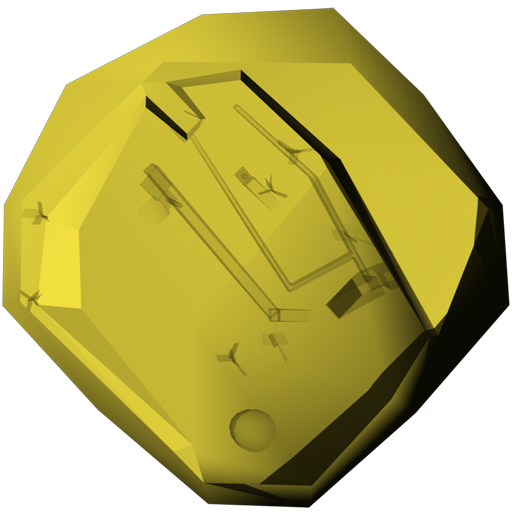
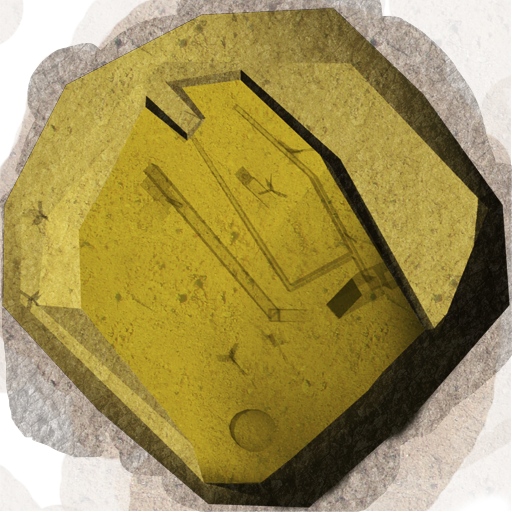
GrenadeRun:  - L. Launcher (and user launcher) can aim backwards,  - attempting to playback paused intro voice-over,  - tweaked RoboCastle,  - added content to level textures,  - added vehicle AI detection of "I'm in a too steep spot = might    be stuck under bridge".

diff --git a/GrenadeRun/VehicleAi.cpp b/GrenadeRun/VehicleAi.cpp
@@ -277,14 +277,31 @@ void VehicleAi::OnTick()
 			if (lModeRunDeltaFrameCount%5 == 2)
 			{
 				const float lVelocityScaleFactor = std::min(1.0f, lVelocity.GetLength() / 2.5f);
-				const float lNearstPathDistance = GetClosestPathDistance(lPosition);
-				if (lNearstPathDistance < SCALE_FACTOR * OFF_COURSE_DISTANCE * lVelocityScaleFactor)
+				Spline* lPath = mGame->GetLevel()->QueryPath()->GetPath(mActivePath);
+				const float lCurrentTime = lPath->GetCurrentInterpolationTime();
+				const float lNearestPathDistance = GetClosestPathDistance(lPosition, mActivePath, 0, 1);
+				if (lNearestPathDistance > 3.0f)
+				{
+					// First verify that we haven't ended up under path somehow. We do that by checking
+					// steepness, since pure Z-distance may be big when going over ditches.
+					const Vector3DF lPathPosition = lPath->GetValue();
+					const float lSteepness = (lPathPosition.z - lPosition.z) / lNearestPathDistance;
+					//mLog.Infof(_T("Checking steepness, nearest path distance is %.3f, steepness is %.3f."), lNearestPathDistance, lSteepness);
+					if (lSteepness > 0.6f)
+					{
+						mLog.Infof(_T("Searching for new, better path, we seem to have ended up under the path. Beneath a bridge perhaps? Nearest path is %.2f, steepness is %.2f."), lNearestPathDistance, lSteepness);
+						SetMode(MODE_FIND_BEST_PATH);
+						return;
+					}
+				}
+				lPath->GotoAbsoluteTime(lCurrentTime);
+				if (lNearestPathDistance < SCALE_FACTOR * OFF_COURSE_DISTANCE * lVelocityScaleFactor)
 				{
 					// We were able to return to normal, keep on running.
 					SetMode(MODE_NORMAL);
 					return;
 				}
-				/*else if (lNearstPathDistance > SCALE_FACTOR * OFF_COURSE_DISTANCE * lVelocityScaleFactor * 5)
+				/*else if (lNearestPathDistance > SCALE_FACTOR * OFF_COURSE_DISTANCE * lVelocityScaleFactor * 5)
 				{
 					// We're far off, perhaps we fell down from a plateu.
 					mActivePath = -1;
@@ -409,7 +426,7 @@ void VehicleAi::OnTick()
 				{
 					const float lMoveAhead = lWantedDistance*1.1f - ::sqrt(lActualDistance2);
 					lPath->StepInterpolation(lMoveAhead * lPath->GetDistanceNormal());
-					mLog.Infof(_T("Stepping %f (=%f m) from %f."), lMoveAhead*lPath->GetDistanceNormal(), lMoveAhead, lPath->GetCurrentInterpolationTime());
+					log_volatile(mLog.Debugf(_T("Stepping %f (=%f m) from %f."), lMoveAhead*lPath->GetDistanceNormal(), lMoveAhead, lPath->GetCurrentInterpolationTime()));
 				}
 
 				// Check if we're there yet.
@@ -1064,7 +1081,7 @@ bool VehicleAi::IsCloseToTarget(const Vector3DF& pPosition, float pDistance) con
 	return (lTargetDistance2 <= lGoalDistance*lGoalDistance);
 }
 
-float VehicleAi::GetClosestPathDistance(const Vector3DF& pPosition, const int pPath, float* pLikeliness) const
+float VehicleAi::GetClosestPathDistance(const Vector3DF& pPosition, const int pPath, float* pLikeliness, float pSteepFactor) const
 {
 	Spline* lPath = mGame->GetLevel()->QueryPath()->GetPath((pPath >= 0)? pPath : mActivePath);
 	if (pLikeliness)
@@ -1114,7 +1131,7 @@ float VehicleAi::GetClosestPathDistance(const Vector3DF& pPosition, const int pP
 	// Steep check.
 	if (lNearestDistance < ::fabs(pPosition.z - lClosestPoint.z)*3)
 	{
-		lNearestDistance *= 5;
+		lNearestDistance *= pSteepFactor;
 	}
 
 	if (pPath < 0)

diff --git a/GrenadeRun/VehicleAi.h b/GrenadeRun/VehicleAi.h
@@ -60,7 +60,7 @@ private:
 	bool AvoidGrenade(const Vector3DF& pPosition, const Vector3DF& pVelocity, float pCaution);
 	void SetMode(Mode pMode);
 	bool IsCloseToTarget(const Vector3DF& pPosition, float pDistance) const;
-	float GetClosestPathDistance(const Vector3DF& pPosition, const int pPath = -1, float* pLikeliness = 0) const;
+	float GetClosestPathDistance(const Vector3DF& pPosition, const int pPath = -1, float* pLikeliness = 0, float pSteepFactor = 5) const;
 	Vector3DF GetClosestElevatorPosition(const Vector3DF& pPosition, const Cure::Elevator*& pNearestElevator) const;
 	bool HasElevatorArrived(const Cure::Elevator*& pNearestElevator, const float pPositionZ, Vector3DF& pNearestLiftPosition2d, float& pElevatorXyDistance2ToElevatorStop);
 	float GetClosestElevatorRadius() const;

diff --git a/GrenadeRun/Game.cpp b/GrenadeRun/Game.cpp
@@ -186,7 +186,14 @@ bool Game::Tick()
 		CURE_RTVAR_GET(lRealTimeRatio, =(float), Cure::GetSettings(), RTVAR_PHYSICS_RTR, 1.0);
 		mLauncherYaw -= mLauncher->ContextObject::GetPhysics()->GetEngine(1)->GetLerpThrottle(0.2f, 0.2f, false) * 0.01f * lRealTimeRatio;
 		mLauncherPitch -= mLauncher->ContextObject::GetPhysics()->GetEngine(0)->GetLerpThrottle(0.2f, 0.2f, false) * 0.01f * lRealTimeRatio;
-		mLauncherYaw = Math::Clamp(mLauncherYaw, -PIF/2, PIF/2);
+		if (mLauncherYaw < -PIF)
+		{
+			mLauncherYaw += 2*PIF;
+		}
+		else if (mLauncherYaw > +PIF)
+		{
+			mLauncherYaw -= 2*PIF;
+		}
 		mLauncherPitch = Math::Clamp(mLauncherPitch, -PIF/2*0.6f, -PIF/90);
 		mLauncher->SetBarrelAngle(mLauncherYaw, mLauncherPitch);
 	}

diff --git a/GrenadeRun/Launcher.cpp b/GrenadeRun/Launcher.cpp
@@ -79,7 +79,16 @@ void Launcher::GetAngles(const Vector3DF& pTargetPosition, const Vector3DF& pTar
 	lPosition1 = lPosition1 + pTargetVelocity * lTime;
 	GetBallisticData(lPosition1, lPosition2, lBetterPitch, pGuidePitch, pGuideYaw, lTime);
 	pGuidePitch = Math::Clamp(pGuidePitch, -PIF/2, 0.0f);
-	pGuideYaw = Math::Clamp(pGuideYaw, -PIF/2, PIF/2);
+	//pGuideYaw = Math::Clamp(pGuideYaw, -PIF/2, PIF/2);
+	const float lYawDelta = pGuideYaw - pYaw;
+	if (lYawDelta > +PIF)
+	{
+		pGuideYaw -= 2*PIF;
+	}
+	else if (lYawDelta < -PIF)
+	{
+		pGuideYaw += 2*PIF;
+	}
 }
 
 void Launcher::CreateEngines()

diff --git a/UiLepra/Include/UiSoundStream.h b/UiLepra/Include/UiSoundStream.h
@@ -21,6 +21,7 @@ class SoundStream
 {
 public:
 	SoundStream(SoundManager* pSoundManager);
+	virtual ~SoundStream();
 	virtual bool Playback() = 0;
 	virtual bool IsPlaying() const = 0;
 	virtual bool Stop() = 0;

diff --git a/UiLepra/Source/UiSoundStream.cpp b/UiLepra/Source/UiSoundStream.cpp
@@ -21,6 +21,10 @@ SoundStream::SoundStream(SoundManager* pSoundManager):
 {
 }
 
+SoundStream::~SoundStream()
+{
+}
+
 bool SoundStream::IsOpen() const
 {
 	return mIsOpen;
